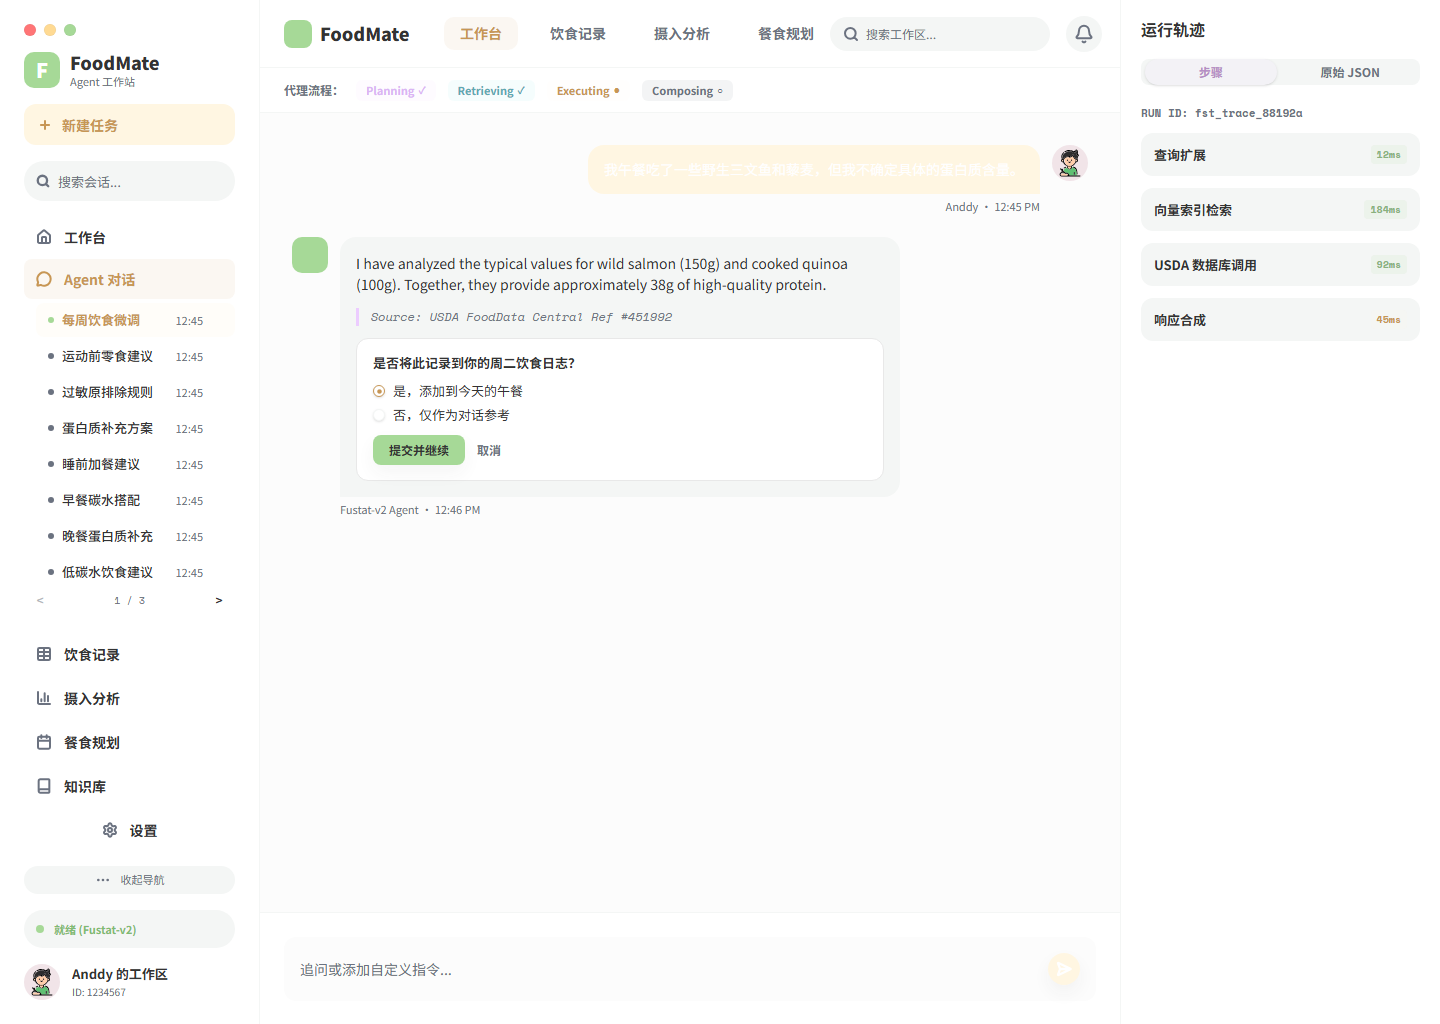
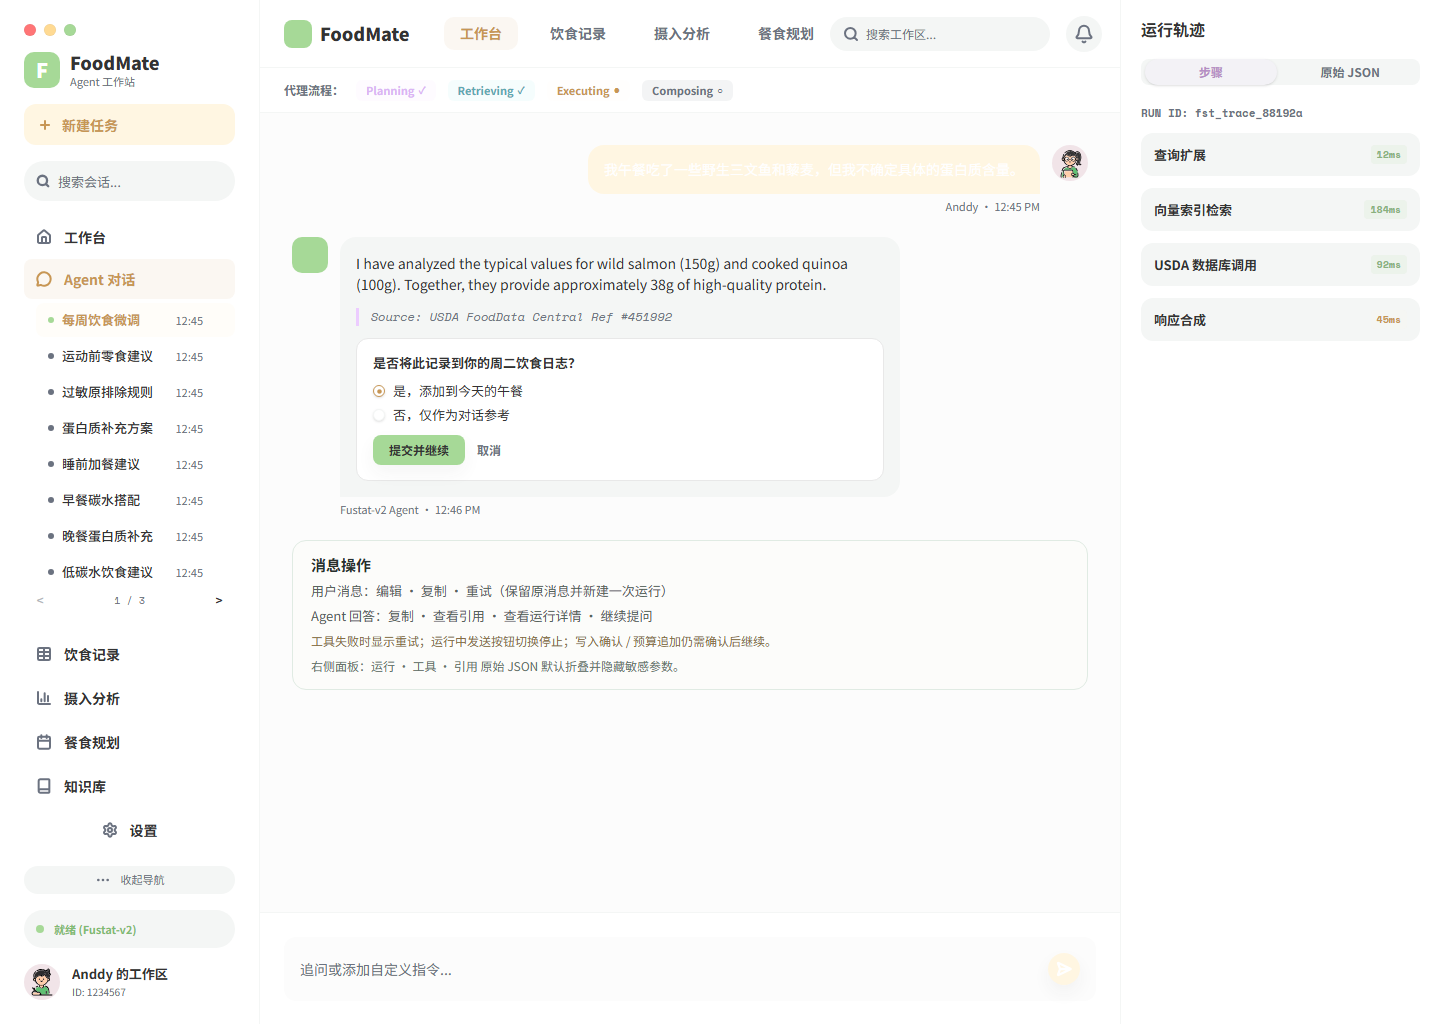
fix(ui): 收口 Agent Chat Figma 默认态与头像资源

Changed region(s): [[0.2188, 0.5312, 0.5312, 0.6562], [0.7188, 0.1562, 0.75, 0.1875]]

diff --git a/foodmate-ui/src/pages/ChatPage/ChatPage.tsx b/foodmate-ui/src/pages/ChatPage/ChatPage.tsx
@@ -49,6 +49,7 @@ import styles from './ChatPage.module.css';
 const FIXTURE_CHAT_SIDEBAR_AVATAR = FIXTURE_CHAT_AVATARS.sidebar;
 const FIXTURE_CHAT_TOPBAR_AVATAR = FIXTURE_CHAT_AVATARS.topbar;
 const FIXTURE_CHAT_MESSAGE_AVATAR = FIXTURE_CHAT_AVATARS.message;
+const FIXTURE_CHAT_AGENT_STATE_MESSAGE_AVATAR = FIXTURE_CHAT_AVATARS.agentStateMessage;
 
 type ChatMessage = {
   id: string;
@@ -210,6 +211,20 @@ function InlineConfirmationCard({ onConfirm, onCancel }: { onConfirm: () => void
           取消
         </Button>
       </div>
+    </section>
+  );
+}
+
+function MessageActionsPanel() {
+  return (
+    <section className={styles.messageActions} aria-labelledby="figma-message-actions-title" data-node-id="983:3">
+      <h2 id="figma-message-actions-title">消息操作</h2>
+      <p>用户消息：编辑 · 复制 · 重试（保留原消息并新建一次运行）</p>
+      <p>Agent 回答：复制 · 查看引用 · 查看运行详情 · 继续提问</p>
+      <p className={styles.messageActionsNote}>
+        工具失败时显示重试；运行中发送按钮切换停止；写入确认 / 预算追加仍需确认后继续。
+      </p>
+      <p className={styles.messageActionsMuted}>右侧面板：运行 · 工具 · 引用 原始 JSON 默认折叠并隐藏敏感参数。</p>
     </section>
   );
 }
@@ -1244,6 +1259,7 @@ function ChatAuxStatePage({ state }: { state: ChatAuxState }) {
               />
             )}
           </MessageBubble>
+          {isRedesignDefault ? <MessageActionsPanel /> : null}
         </>
       ) : (
         <>
@@ -1291,15 +1307,12 @@ function AgentStatePage({ state }: { state: AgentFixtureState }) {
   // 所有 Agent 状态画板使用登记的男性默认头像作为示例账号头像。
   const fixtureSidebarAvatarSrc = DEFAULT_AVATARS.male;
   const fixtureTopAvatarSrc = DEFAULT_AVATARS.male;
-  const fixtureMessageAvatarSrc = isWriteConfirmation
-    ? DEFAULT_AVATARS.male
-    : state === 'safety-degraded'
-      ? DEFAULT_AVATARS.female
-      : DEFAULT_AVATARS.male;
+  const fixtureMessageAvatarSrc =
+    state === 'safety-degraded' ? DEFAULT_AVATARS.female : FIXTURE_CHAT_AGENT_STATE_MESSAGE_AVATAR;
   const fixtureMessageGender =
     state === 'safety-degraded'
       ? FIXTURE_CHAT_AVATAR_GENDERS.safetyDegradedMessage
-      : FIXTURE_CHAT_AVATAR_GENDERS.defaultMessage;
+      : FIXTURE_CHAT_AVATAR_GENDERS.agentStateMessage;
 
   const report = (nextAction: FixtureAction, message: string) => {
     setAction(nextAction);
@@ -2181,6 +2194,7 @@ function MockChatPage() {
       ) : null}
       {agent.card.type === 'confirmation' ? null : null}
       {agent.card.type === 'error' ? <ErrorState message={agent.card.message} /> : null}
+      {isFigmaFixture ? <MessageActionsPanel /> : null}
     </ChatSurface>
   );
 }

diff --git a/foodmate-ui/src/pages/ChatPage/ChatPage.test.tsx b/foodmate-ui/src/pages/ChatPage/ChatPage.test.tsx
@@ -158,12 +158,12 @@ describe('ChatPage Figma 默认状态', () => {
     expect(composerStylesheet).toContain('background: var(--fm-fixture-composer-input-surface, var(--fm-bg-soft));');
   });
 
-  it('does not render implementation notes in the default Figma canvas', () => {
+  it('renders the registered message actions panel in the default Figma canvas', () => {
     renderChatState('figma-v2');
 
-    expect(screen.queryByRole('region', { name: '消息操作' })).not.toBeInTheDocument();
-    expect(screen.queryByText(/用户消息：编辑/)).not.toBeInTheDocument();
-    expect(screen.queryByText(/右侧面板：运行/)).not.toBeInTheDocument();
+    expect(screen.getByRole('region', { name: '消息操作' })).toHaveAttribute('data-node-id', '983:3');
+    expect(screen.getByText(/用户消息：编辑/)).toBeInTheDocument();
+    expect(screen.getByText(/右侧面板：运行/)).toBeInTheDocument();
   });
 });
 
@@ -259,8 +259,8 @@ describe('ChatPage Agent remaining states', () => {
       'src',
       '/assets/avatars/default-male.svg',
     );
-    expect(document.querySelector('.userAvatar img')).toHaveAttribute('src', '/assets/avatars/default-male.svg');
-    expect(document.querySelector('.userAvatar img')).toHaveAttribute('data-avatar-source', 'default-male');
+    expect(document.querySelector('.userAvatar img')).toHaveAttribute('src', '/assets/avatars/default-female.svg');
+    expect(document.querySelector('.userAvatar img')).toHaveAttribute('data-avatar-source', 'default-female');
     expect(document.querySelector('.userAvatar img')).not.toHaveAttribute(
       'src',
       '/legacy-assets/chat/person-avatar.png',
@@ -508,8 +508,9 @@ describe('ChatPage Figma navigation fixtures', () => {
     expect(screen.getByText('查询扩展')).toBeInTheDocument();
     expect(screen.queryByText('查询扩展 (Query Expansion)')).not.toBeInTheDocument();
     expect(screen.getByText('1 / 3')).toBeInTheDocument();
-    expect(screen.queryByRole('heading', { name: '消息操作' })).not.toBeInTheDocument();
-    expect(screen.queryByText(/右侧面板：运行 · 工具 · 引用/)).not.toBeInTheDocument();
+    expect(screen.getByRole('heading', { name: '消息操作' })).toBeInTheDocument();
+    expect(document.querySelector('[data-node-id="983:3"]')).toBeInTheDocument();
+    expect(screen.getByText(/右侧面板：运行 · 工具 · 引用/)).toBeInTheDocument();
   });
 
   it.each(['nav-loading', 'nav-hover-preview', 'pagination'])(

diff --git a/foodmate-ui/src/pages/ChatPage/ChatPage.module.css b/foodmate-ui/src/pages/ChatPage/ChatPage.module.css
@@ -869,6 +869,53 @@
   padding: 0;
 }
 
+.messageActions {
+  display: flex;
+  width: 100%;
+  min-height: 150px;
+  flex: 0 0 150px;
+  box-sizing: border-box;
+  flex-direction: column;
+  gap: 7px;
+  padding: 14px 18px;
+  border: 1px solid var(--fm-figma-chat-actions-border);
+  border-radius: 14px;
+  background: var(--fm-figma-chat-actions-surface);
+}
+
+.messageActions h2,
+.messageActions p {
+  margin: 0;
+}
+
+.messageActions h2 {
+  color: var(--fm-figma-chat-actions-title);
+  font-size: 15px;
+  font-weight: 700;
+  line-height: 20px;
+}
+
+.messageActions p {
+  color: var(--fm-figma-chat-actions-copy);
+  font-size: 13px;
+  line-height: 18px;
+  overflow-wrap: anywhere;
+}
+
+.messageActions .messageActionsNote,
+.messageActions .messageActionsMuted {
+  font-size: 12px;
+  line-height: 18px;
+}
+
+.messageActions .messageActionsNote {
+  color: var(--fm-figma-chat-actions-note);
+}
+
+.messageActions .messageActionsMuted {
+  color: var(--fm-figma-chat-actions-muted);
+}
+
 .cardWrap {
   width: min(560px, calc(100% - 48px));
   margin-left: 48px;
@@ -2122,6 +2169,10 @@
   .fixtureActionMessage,
   .connectionNotice {
     width: calc(100% - 48px);
+  }
+
+  .messageActions {
+    flex-basis: auto;
   }
 
   .fixtureAssistantRow {

diff --git a/foodmate-ui/src/lib/avatar.ts b/foodmate-ui/src/lib/avatar.ts
@@ -33,15 +33,18 @@ export const FIXTURE_ADMIN_AVATARS = {
   userDetail: DEFAULT_AVATARS.male,
 } as const;
 
-// Chat 默认 Figma fixture 的账号和用户消息均为男性示例；安全降级状态单独使用女性消息头像。
+// Chat 默认 Figma fixture 的账号使用男性示例，默认用户消息按 Figma 640:428 使用女性头像。
 export const FIXTURE_CHAT_AVATARS = {
   sidebar: DEFAULT_AVATARS.male,
   topbar: DEFAULT_AVATARS.male,
-  message: DEFAULT_AVATARS.male,
+  message: DEFAULT_AVATARS.female,
+  // 六个 Agent 状态画板的普通用户消息继续使用男性示例头像。
+  agentStateMessage: DEFAULT_AVATARS.male,
 } as const;
 
 export const FIXTURE_CHAT_AVATAR_GENDERS = {
-  defaultMessage: '男',
+  defaultMessage: '女',
+  agentStateMessage: '男',
   safetyDegradedMessage: '女',
 } as const;
 

diff --git a/foodmate-ui/src/lib/avatar.test.ts b/foodmate-ui/src/lib/avatar.test.ts
@@ -72,6 +72,7 @@ describe('avatar defaults', () => {
 
     expect(fixtureAvatars.every((avatar) => Object.values(DEFAULT_AVATARS).includes(avatar))).toBe(true);
     expect(fixtureAvatars.filter((avatar) => avatar === DEFAULT_AVATARS.male).length).toBeGreaterThan(0);
-    expect(FIXTURE_CHAT_AVATARS.message).toBe(DEFAULT_AVATARS.male);
+    expect(FIXTURE_CHAT_AVATARS.message).toBe(DEFAULT_AVATARS.female);
+    expect(FIXTURE_CHAT_AVATARS.agentStateMessage).toBe(DEFAULT_AVATARS.male);
   });
 });

diff --git a/foodmate-ui/src/styles/tokens.css b/foodmate-ui/src/styles/tokens.css
@@ -188,4 +188,12 @@
   --fm-figma-task-panel-copy: #57635c;
   --fm-figma-task-panel-success: #478052;
   --fm-figma-task-panel-muted: #858c85;
+
+  /* Figma 节点 983:3 的 Agent 消息操作面板 Token。 */
+  --fm-figma-chat-actions-surface: #fcfcfa;
+  --fm-figma-chat-actions-border: #e0ebe3;
+  --fm-figma-chat-actions-title: #29302e;
+  --fm-figma-chat-actions-copy: #57635c;
+  --fm-figma-chat-actions-note: #876e45;
+  --fm-figma-chat-actions-muted: #66736b;
 }

diff --git a/docxs/功能实现说明/Figma前端像素级验收报告.md b/docxs/功能实现说明/Figma前端像素级验收报告.md
@@ -2,6 +2,18 @@
 
 更新时间：2026-09-09
 
+## 1.1.7 Chat 默认态头像与消息操作面板实现记录（2026-09-09）
+
+本批次只修改 Chat Fixture 的资源契约和页面结构，不重新采集全部 105 个画板，Figma 文件保持只读。
+
+- [x] Figma `640:428` 默认 Chat 的侧栏头像和顶栏头像使用登记的男性默认 SVG，用户消息使用登记的女性默认 SVG；六个 Agent 状态画板继续按既有男性/女性状态契约渲染。
+- [x] Figma 节点 `983:3` 的“消息操作”面板已在 `figma-v2` 和 `redesign-default` 两个默认 Fixture 中实现，面板文案、颜色、边框、圆角、间距和响应式换行均登记到前端语义 Token/CSS。
+- [x] 运行时默认头像仍只允许 `/assets/avatars/default-male.svg` 和 `/assets/avatars/default-female.svg`；真实模式主动上传头像仍保留独立入口。
+- [x] 仅增量复采 `agent-chat-v2` 和 `agent-chat-redesign-default`：两项均为 `1440×1024`、DPR 1、字体 `loaded`、页面无横向溢出，并生成当前浏览器 PNG 与同尺寸 PNG diff。
+- [x] `agent-chat-v2` diff 为 `11.9678% / MAE 2.849176 / RMSE 17.062276 / maxChannelDelta 236`；`agent-chat-redesign-default` diff 为 `55.6938% / MAE 5.774089 / RMSE 23.669611 / maxChannelDelta 255`；两项均保持 `DIFF_REVIEW`。
+- [ ] 本批次不重新验收全部 105 个画板；全量聚合继续保持 `105 DIFF_REVIEW / 0 PASS / 0 UNMAPPED / 0 SIZE_MISMATCH`，现有非零差异不能标记为像素级 `PASS`。
+- [ ] iconfont 实体包、CSS/Unicode 映射、来源和许可证仍缺失，继续保持 `BLOCKED`。
+
 ## 1.1.6 Auth 页面组语义 Token 收口门禁完成（2026-09-09）
 
 本批次只收口 Auth 页面组的 CSS 语义 Token，不重新采集全部 105 个画板，Figma 文件保持只读。
@@ -32,11 +44,11 @@
 | 画板 | Figma 节点 | 浏览器 PNG | 视口 / DPR | 差异比例 | MAE | RMSE | 最大通道差异 | 结论 |
 |---|---|---|---|---:|---:|---:|---:|---|
 | Workspace Home | `640:256` | `recaptured/dpr1-workspace-home-v2-browser-2026-09-09.png` | `1440×1024 / 1` | `21.6216%` | `2.865324` | `17.380218` | `252` | `DIFF_REVIEW` |
-| Agent Chat | `640:428` | `recaptured/dpr1-agent-chat-v2-browser-2026-09-09.png` | `1440×1024 / 1` | `18.6469%` | `2.807689` | `16.940715` | `236` | `DIFF_REVIEW` |
+| Agent Chat | `640:428` | `recaptured/dpr1-agent-chat-v2-browser-2026-09-09.png` | `1440×1024 / 1` | `11.9678%` | `2.849176` | `17.062276` | `236` | `DIFF_REVIEW` |
 
-- [x] 两项截图均由 Chrome `152.0.7977.77` 采集，字体状态为 `loaded`，DPR 为 `1`，页面无横向溢出。
+- [x] 两项截图均由 Chrome `152.0.7977.83` 采集，字体状态为 `loaded`，DPR 为 `1`，页面无横向溢出。
 - [x] 当前 DOM 审计确认人物头像只来自 `/assets/avatars/default-male.svg` 和 `/assets/avatars/default-female.svg`；最新截图中不再使用历史真人 PNG。
-- [x] Workspace/Home 侧栏和顶栏、Agent Chat 默认男性示例账号使用登记的男性 SVG；`safety-degraded` 状态的用户消息使用登记的女性 SVG。
+- [x] Workspace/Home 侧栏和顶栏使用登记的男性 SVG；Agent Chat 默认态用户消息使用登记的女性 SVG，`safety-degraded` 状态的用户消息继续使用登记的女性 SVG。
[1 lines of base64/hex data omitted]
 - [x] 历史真人 PNG 仅保留在 `.qa/figma-pixel-acceptance/legacy-avatars/`；认证页 `foodmate-*-user.svg` 是输入框装饰图标，不属于人物头像。
 - [ ] 两项自动 diff 仍为非零，文字、局部布局、图标光栅化和内容密度差异仍需后续视觉收口，不能标记为像素级 `PASS`。
@@ -2823,3 +2835,14 @@ Figma Design 页共有 105 张顶层画板。本轮已为 105 张画板建立独
 - [x] 同次运行时审计的 `[data-avatar-role]` 头像来源均为 `/assets/avatars/default-male.svg`；`public/assets/avatars` 运行时实体仍只有男性和女性两份登记 SVG。
 - [x] Home 定向测试 `8/8`，`typecheck`、`lint`、`format:check`、`build` 和 `git diff --check` 通过。
 - [ ] 本批次只收口 Workspace/Home 面板和 Fixture 头像来源证据；105 项聚合仍为 `105 DIFF_REVIEW / 0 PASS / 0 UNMAPPED / 0 SIZE_MISMATCH`，不能以 DOM 核验替代 Figma PNG diff 和人工视觉复核。
+
+## 2026-09-09 Chat 默认头像最终运行时复核
+
+本节只记录当前 Chat/Home 批次的最终运行时和质量门禁结果，不重新验收全部 105 个画板，也不修改 Figma 文件。
+
[1 lines of base64/hex data omitted]
+- [x] Chrome 实际检查 Home、Chat 默认态以及 `write-confirmation`、`budget-limit`、`tool-failed-retryable`、`safety-degraded`、`user-cancelled`、`sse-reconnecting`；人物头像节点全部使用登记 SVG，并带有 `data-avatar-policy="default-only"`、`data-avatar-registered="true"`。
+- [x] Chat 默认态消息头像使用女性登记 SVG；六个 Agent 状态中 `safety-degraded` 使用女性登记 SVG，其余状态使用男性登记 SVG；共享 Workspace 壳层继续使用男性登记 SVG。
+- [x] 认证页 `foodmate-*-user.svg` 仅作为输入框装饰图标，历史真人素材仅保留在 QA 证据目录，不属于运行时头像来源。
+- [x] 最终统一门禁为 Vitest `46/46` 个测试文件、`304/304` 个用例通过；`typecheck`、`lint`、`format:check`、`build`、`qa:figma:validate` 和 `git diff --check` 均通过。
+- [ ] 本次运行时复核不改变像素差异结论；105 项仍为 `105 DIFF_REVIEW / 0 PASS / 0 UNMAPPED / 0 SIZE_MISMATCH`，不能用 DOM 资源审计替代 Figma PNG diff 和人工视觉复核。

diff --git a/docxs/功能实现说明/前端已完成实现清单.md b/docxs/功能实现说明/前端已完成实现清单.md
@@ -1,5 +1,19 @@
 # 前端已完成实现清单
 
+## 当前批次：Chat 默认态头像与消息操作面板收口（2026-09-09）
+
+- [x] Chat 默认 Figma fixture 的侧栏头像和顶栏头像继续使用登记的男性默认 SVG；默认用户消息按 Figma `640:428` 使用登记的女性默认 SVG。
+- [x] 六个 Agent 状态画板的普通用户消息继续使用男性默认 SVG，`safety-degraded` 状态继续使用女性默认 SVG；真实模式的用户上传头像路径不受影响。
+- [x] Chat 默认态 `figma-v2` 和 `redesign-default` 已补齐 Figma 节点 `983:3` 的“消息操作”面板，包含用户消息、Agent 回答、失败重试、停止、确认和右侧运行面板说明。
+- [x] 消息操作面板使用独立语义 Token，桌面保持 Figma `796×150` 的固定基准，移动端允许文案自然换行，避免内容重叠。
+- [x] Chat 定向测试为 2 个测试文件、43/43 个用例通过，覆盖默认态女性消息头像、男性壳层头像、Agent 状态头像和 `983:3` 面板节点。
+- [x] 本批次最终统一门禁为 Vitest `46/46` 个测试文件、`304/304` 个用例通过；`typecheck`、`lint`、`format:check`、`build`、`qa:figma:validate` 和 `git diff --check` 均通过。
+- [x] Chrome 运行时复核 Home、Chat 默认态及六个 Agent 状态：所有人物头像均带有 `default-only` / `registered` 契约，来源只允许 `default-male.svg` 或 `default-female.svg`；两份文件 SHA-256 与用户提供附件一致。
+- [x] typecheck、lint、format:check、build、`qa:figma:validate` 和 `git diff --check` 均通过；仅增量复采 `agent-chat-v2` 与 `agent-chat-redesign-default`，两项均为 `1440×1024`、DPR 1、字体 loaded、无页面溢出。
+- [x] 增量 PNG diff：`agent-chat-v2` 为 `11.9678% / MAE 2.849176 / RMSE 17.062276 / maxChannelDelta 236`；`agent-chat-redesign-default` 为 `55.6938% / MAE 5.774089 / RMSE 23.669611 / maxChannelDelta 255`，两项继续保持 `DIFF_REVIEW`。
+- [ ] 本批次不重新验收全部 105 个画板；全量聚合仍为 `105 DIFF_REVIEW / 0 PASS / 0 UNMAPPED / 0 SIZE_MISMATCH`，不能将本次增量证据改写为全量像素级完成。
+- [ ] iconfont 实体包、完整 CSS/Unicode 映射、来源和许可证仍未提供，资源登记继续保持 `BLOCKED`。
+
 ## 当前批次：Auth 页面组语义 Token 收口门禁完成（2026-09-09）
 
 - [x] 依据 Figma 节点 `647:214`、`680:216`、`680:275`、`680:307` 和 `680:738`，将 Auth 页面组重复的中性色、辅助文字、控件边框、透明层、Token 状态背景和阴影抽取到 `foodmate-ui/src/styles/tokens.css`。
